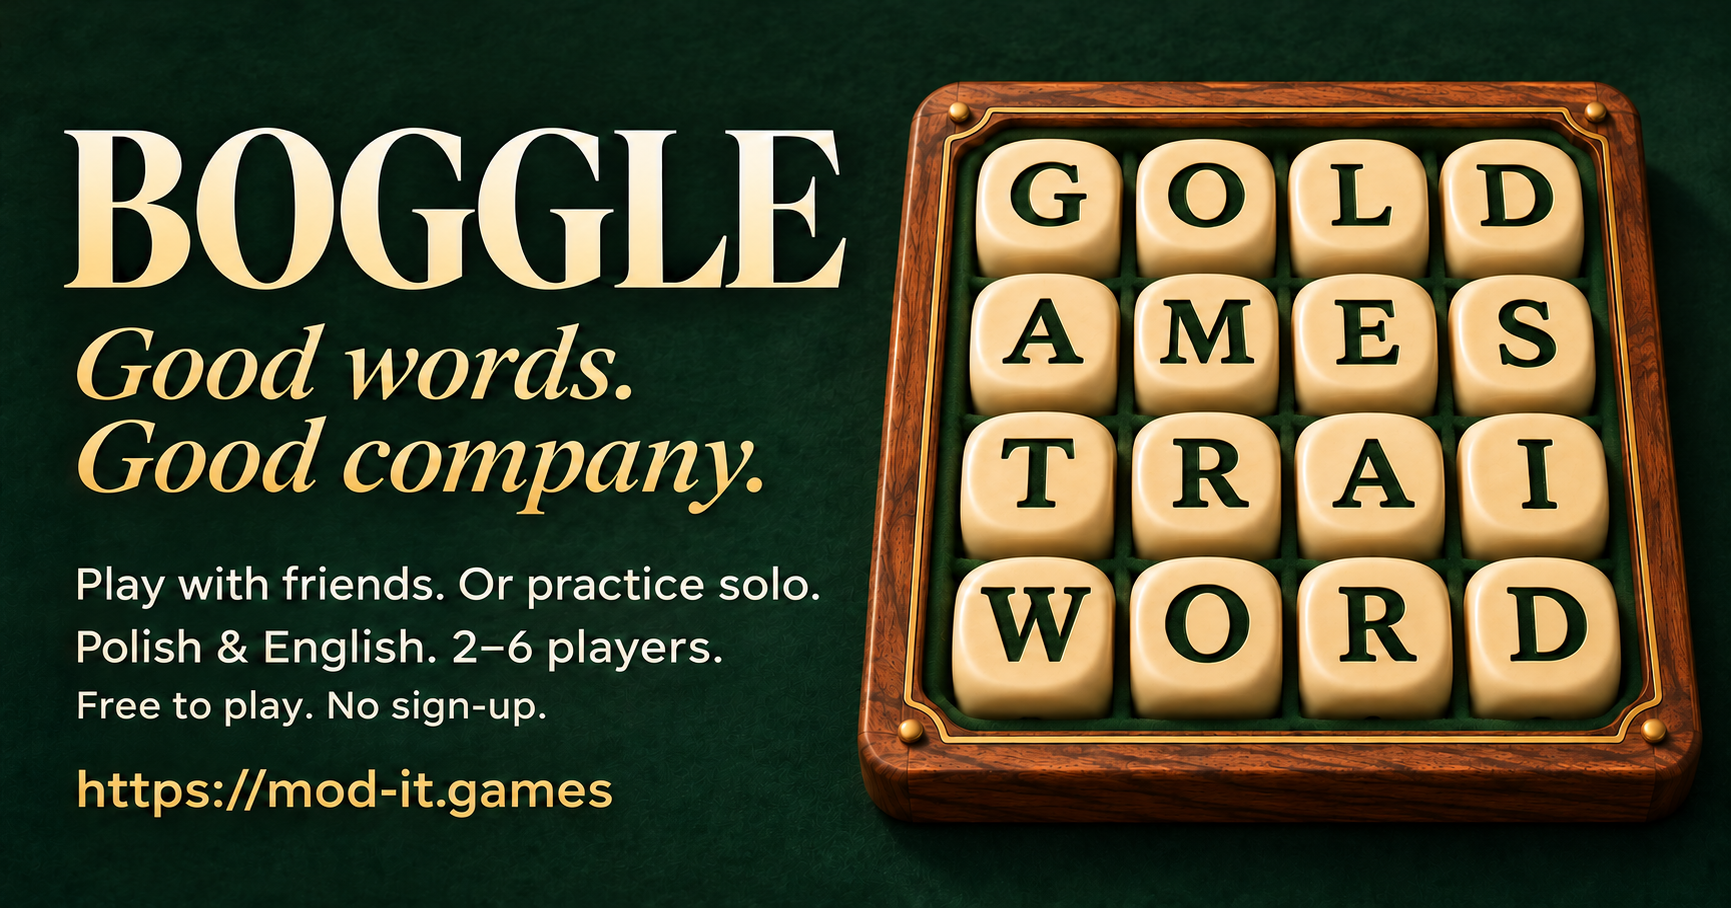
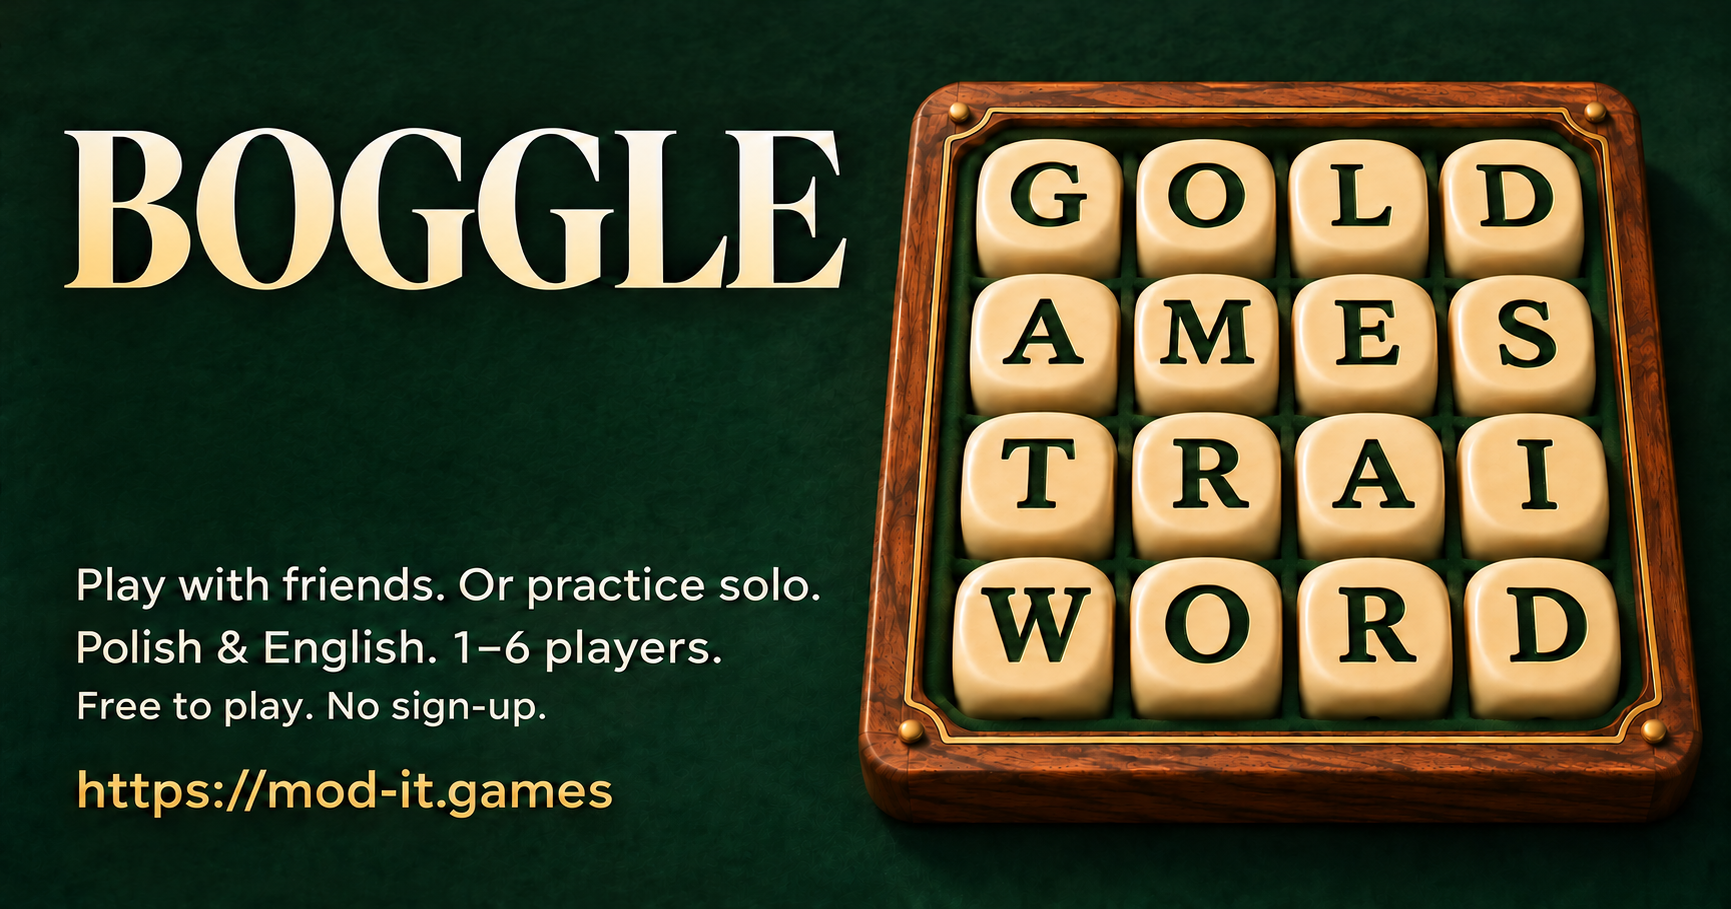
Revise Boggle campaign copy for one to six players

diff --git a/marketing/DRIVERS-SEAT-BOGGLE-PROMPTS.md b/marketing/DRIVERS-SEAT-BOGGLE-PROMPTS.md
@@ -1,5 +1,15 @@
 # Driver’s Seat and Boggle launch artwork
 
+## Current Boggle LinkedIn revision
+
+The current Boggle poster removes the italic tagline and says `Polish & English. 1–6 players.`. Updated with the built-in image tool; the PNG master, upload-ready JPEG and social-preview JPEG use this revision. Earlier prompts below document the original generation.
+
+Final edit prompt:
+
+```text
+undefined
+```
+
 Generated with the built-in `image_gen` tool (imagegen skill); no CLI/API fallback. References: existing `tow-social.png`, `tow-cover.png` and `chess-linkedin.png`. The English campaign typography, emerald/ivory/gold palette and tactile art follow those earlier posters. Both new LinkedIn posters include the exact homepage URL `https://mod-it.games`.
 
 Masters and exports:
